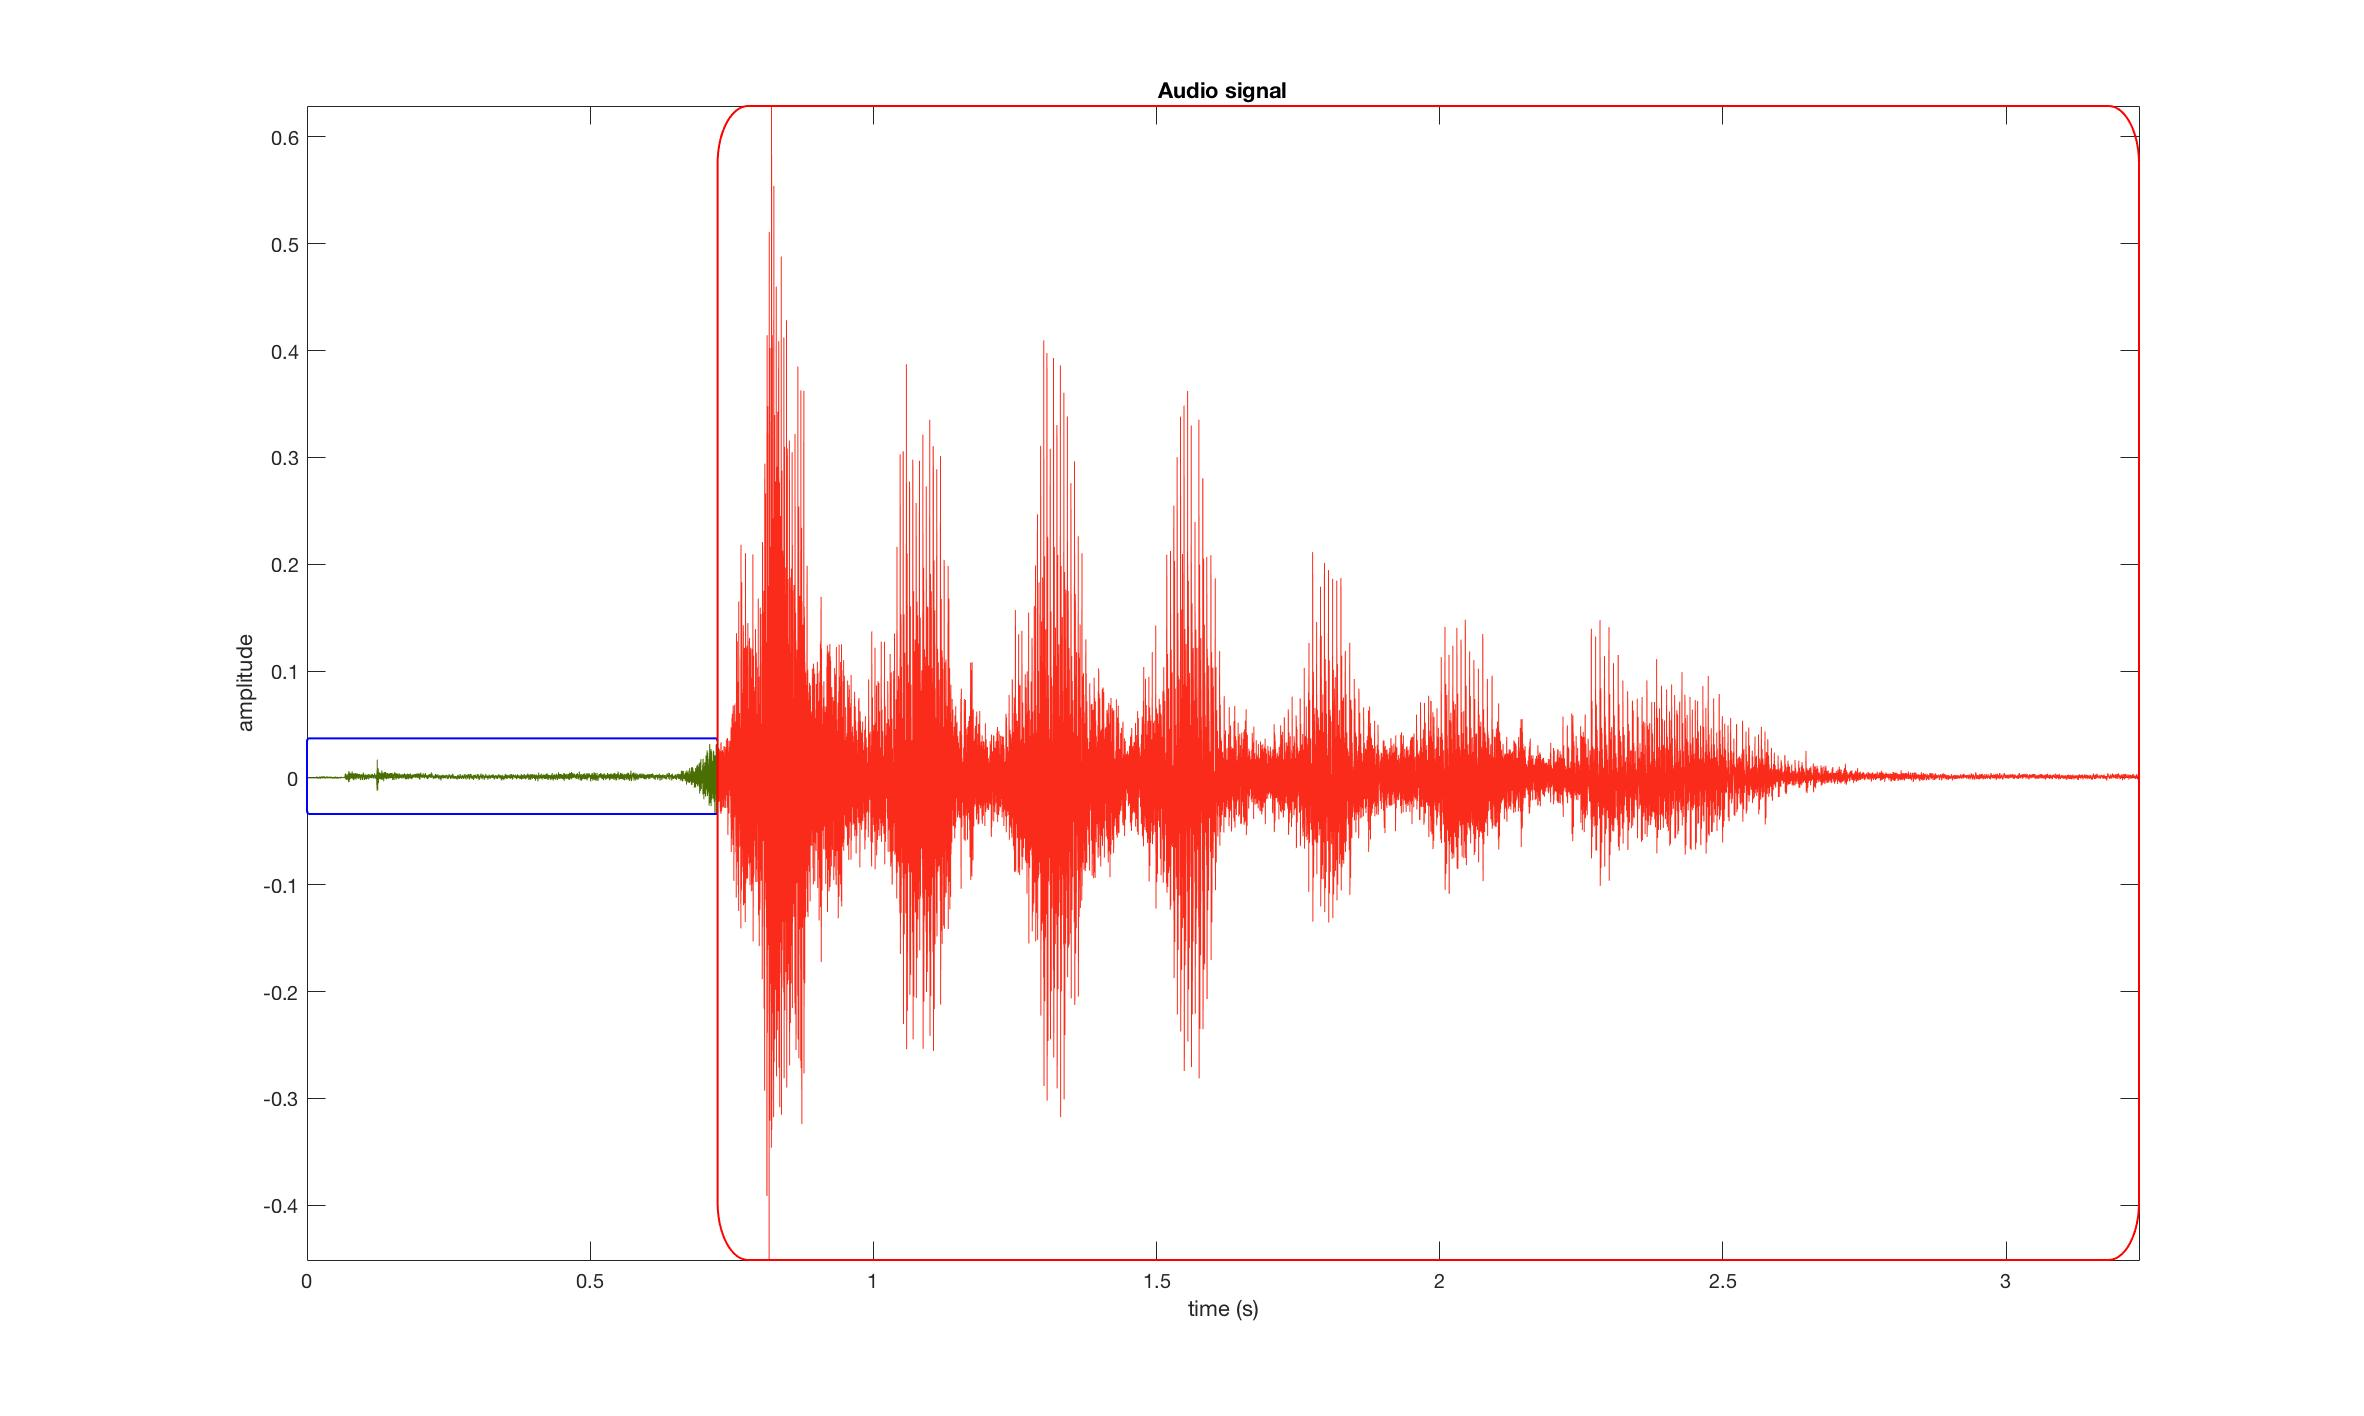
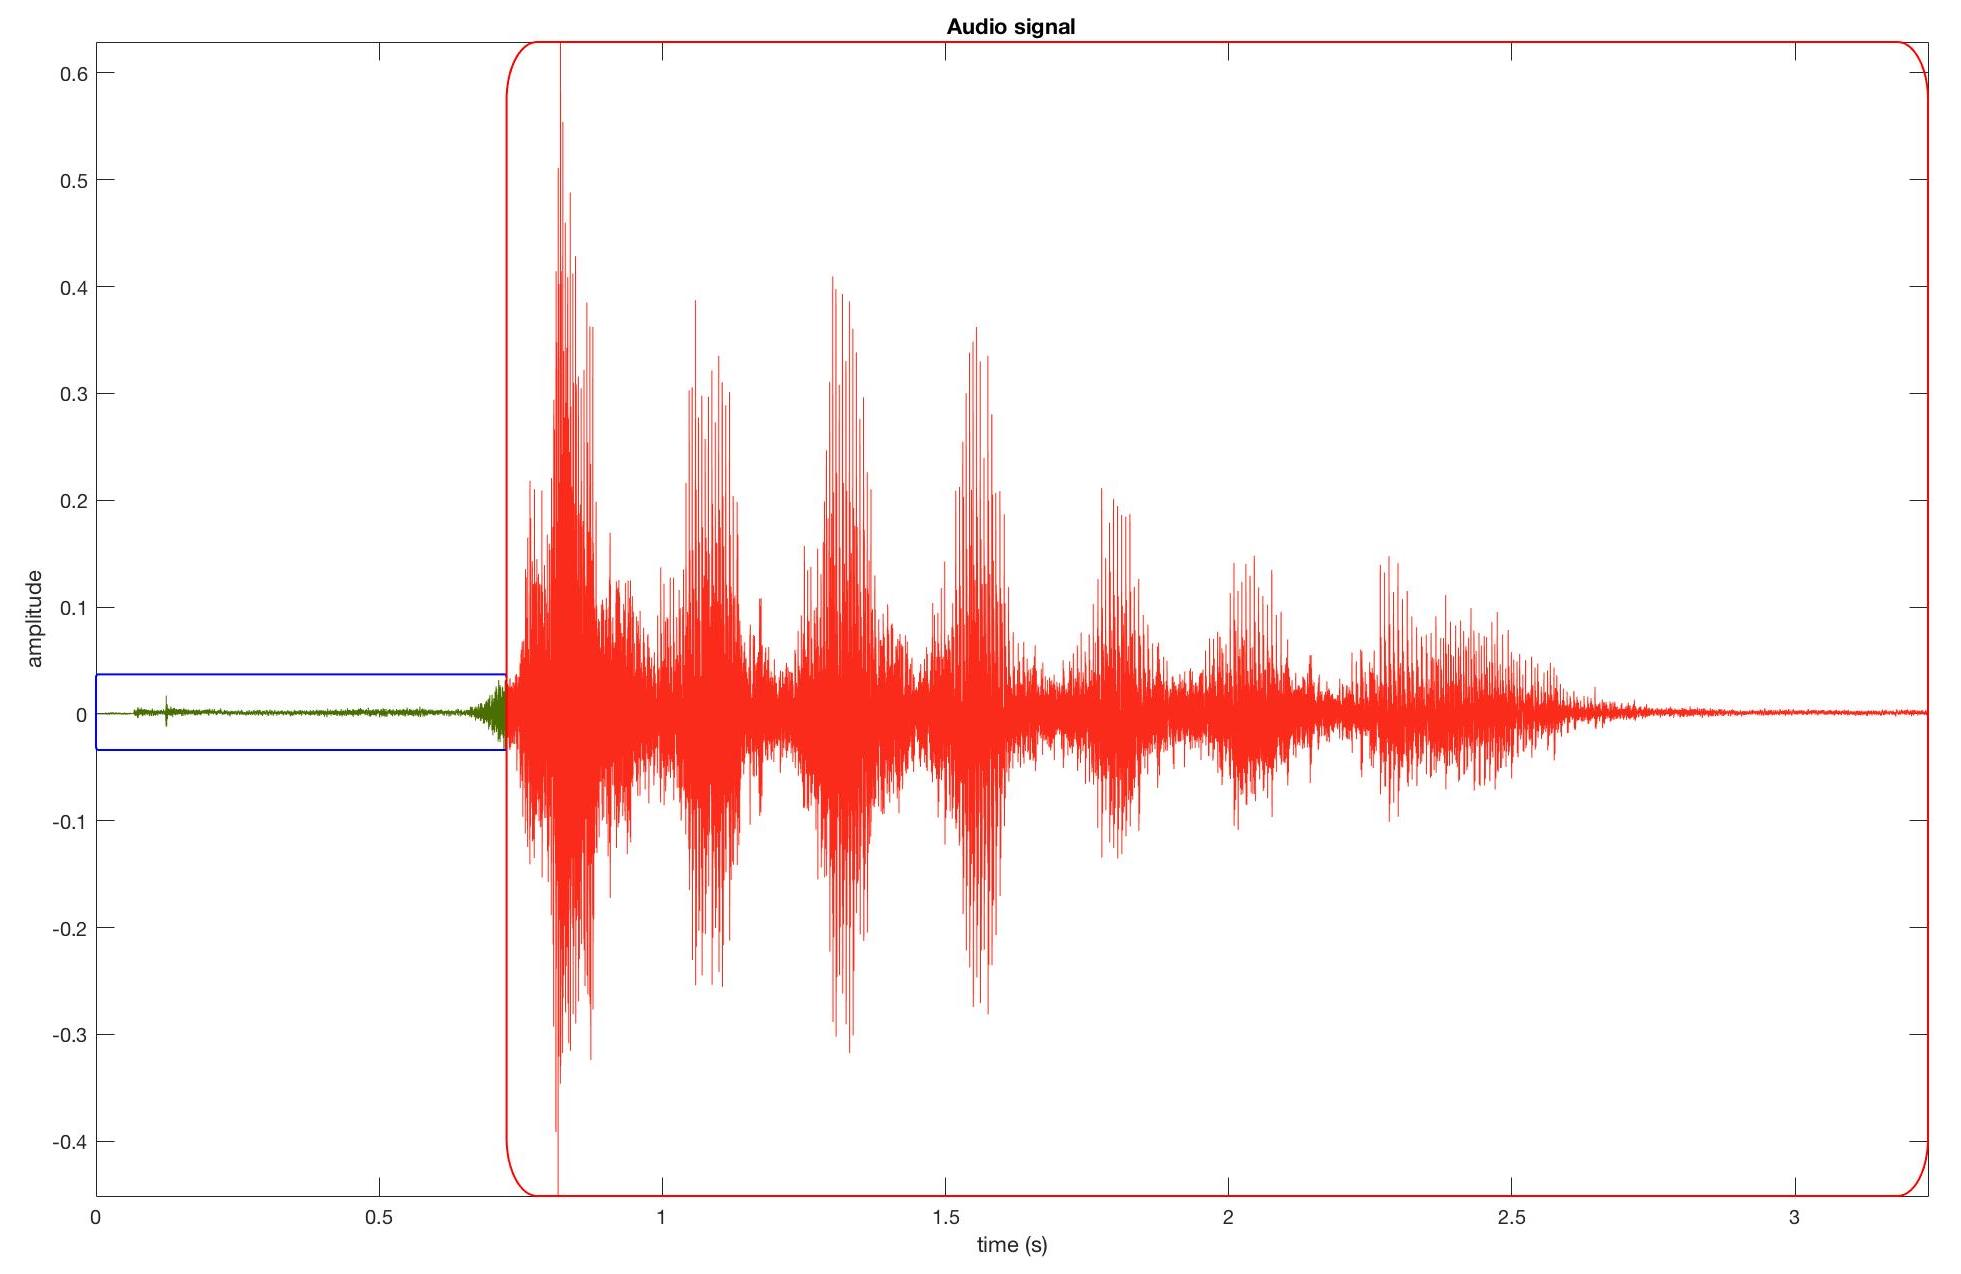
fdf

diff --git a/mumt307/laughsynth.html b/mumt307/laughsynth.html
@@ -76,7 +76,7 @@ a:active {
 		<h4>Silence Removal</h4>
    			<p>Upon recording, there will inevitably by a short period of silence at the beginning of the audio file. This file needs to be detected and removed from the audio signal in order for future modifications to work effectively. This was completed using the 'TrimStart' extraction option of the <i>miraudio</i> operator in the MIRtoolbox.</p>
    			<img src="images/silencecode.jpg" width="450" height="143" alt=""/><br>
-	  		<img src="images/silence.jpg" width="800" height="481" alt=""/>
+	  <img src="images/silence.jpg" width="804" height="522" alt=""/>
     </ul>
 	</section>
   <!-- Copyrights Section -->
